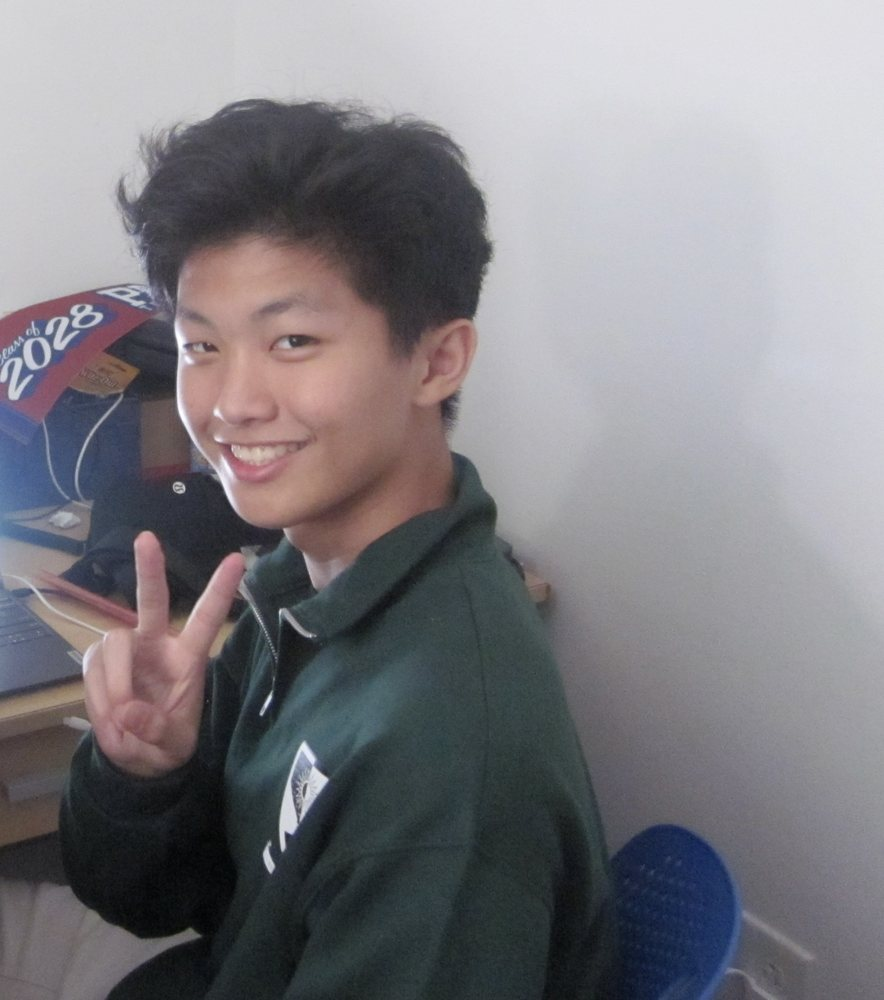
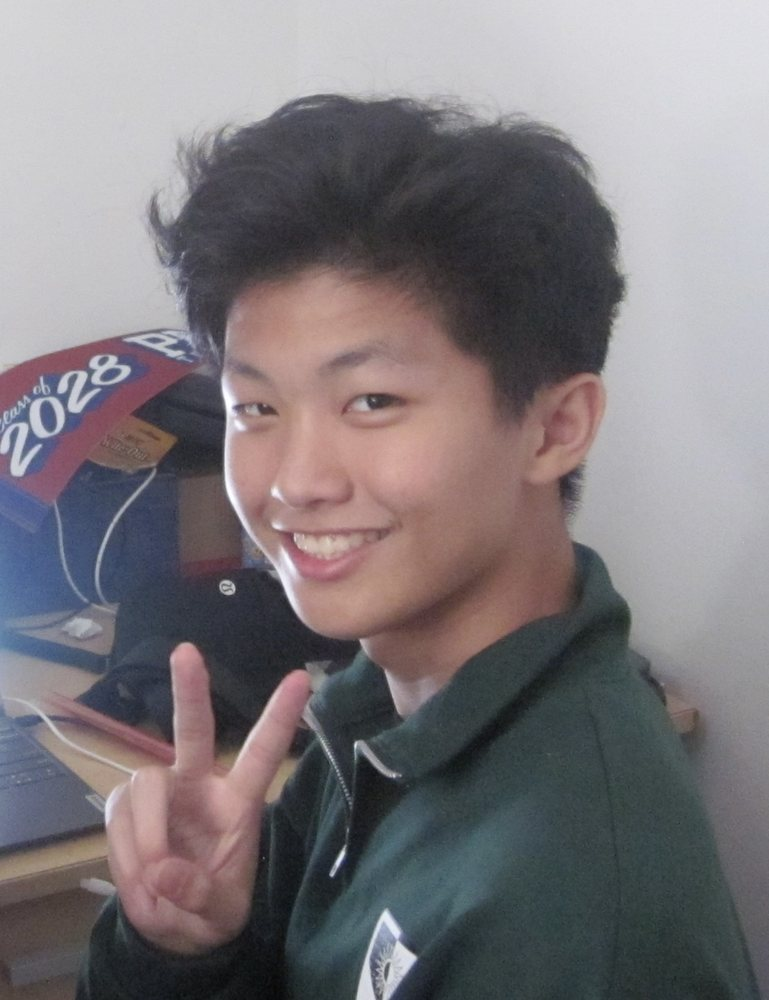
Center About me photo

diff --git a/index.html b/index.html
@@ -601,7 +601,7 @@
   <span class="tag">About</span>
   <h3 id="t-about">About me</h3>
   <div class="about-grid">
-    <img class="me" src="public/photos/justin.jpg" alt="Me at my desk, in a green sweatshirt, throwing a peace sign" width="884" height="1000">
+    <img class="me" src="public/photos/justin.jpg" alt="Me at my desk, in a green sweatshirt, throwing a peace sign" width="769" height="1000">
     <div>
       <p>Hi! I'm Justin, an electrical engineering student in Penn's accelerated BS/MS program, graduating in May 2028.</p>
       <p>I grew up building robots for competitions, and these days most of my time goes to Penn Electric Racing, where I'm a lead working on high voltage, our PDU, and the DAQ and dash boards. Beyond the car, I'm really into computers and silicon.</p>
